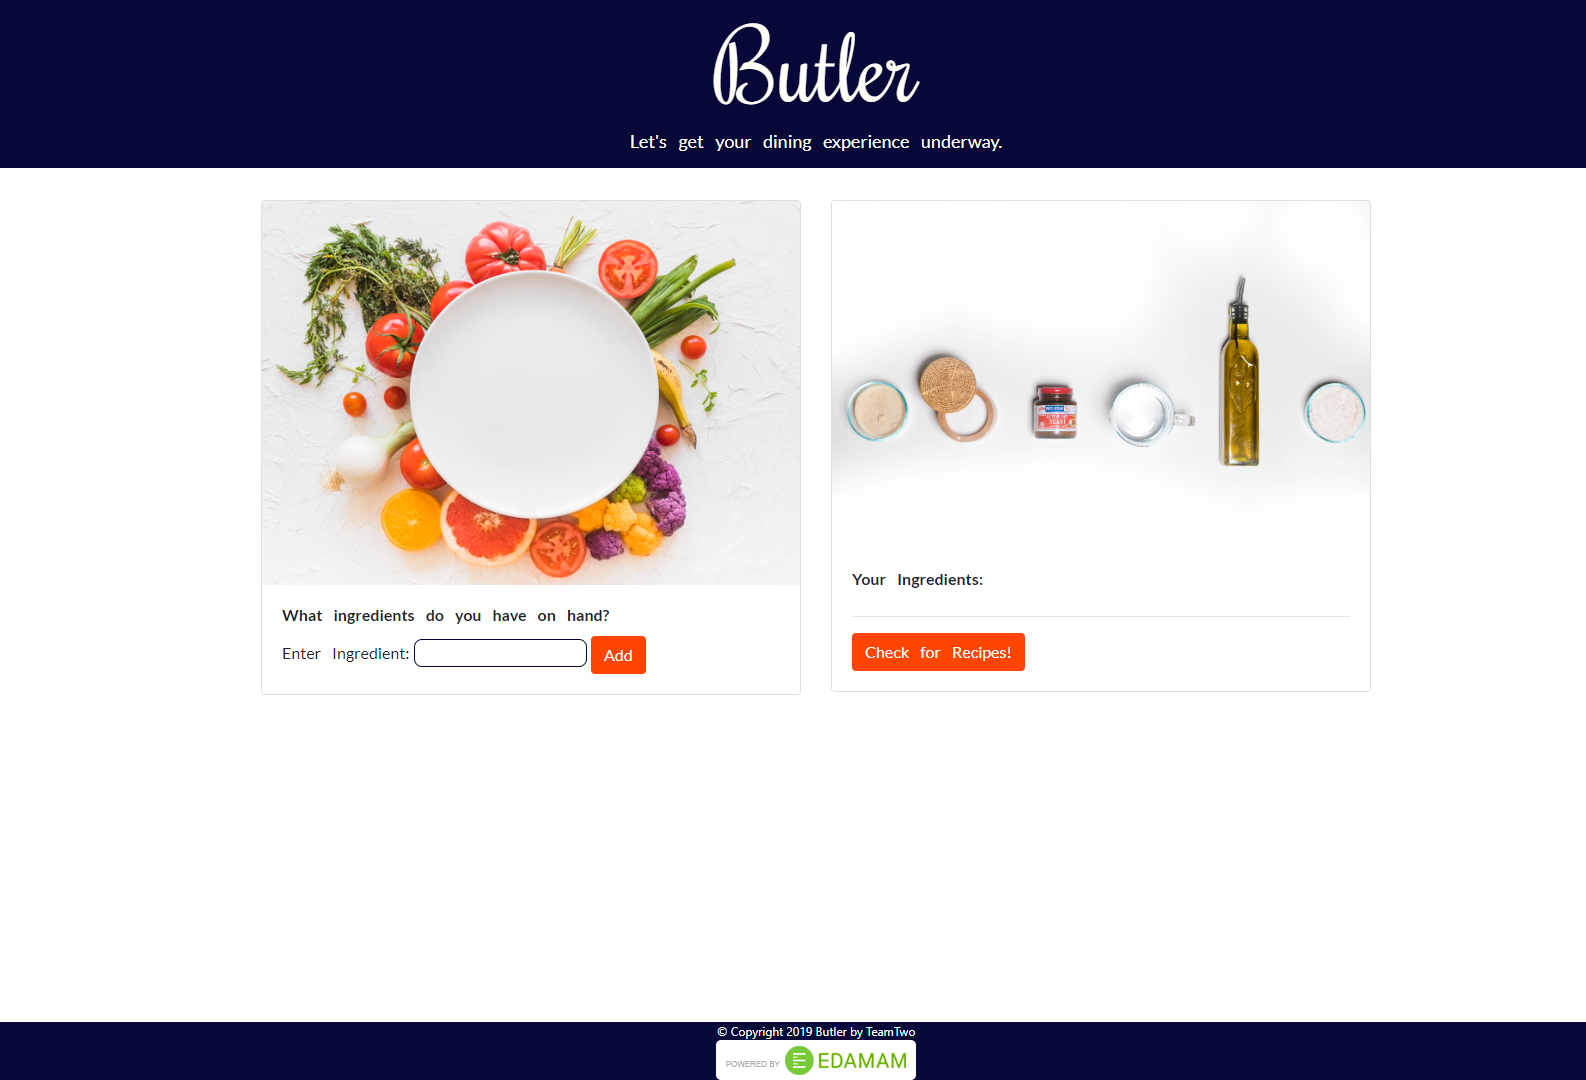
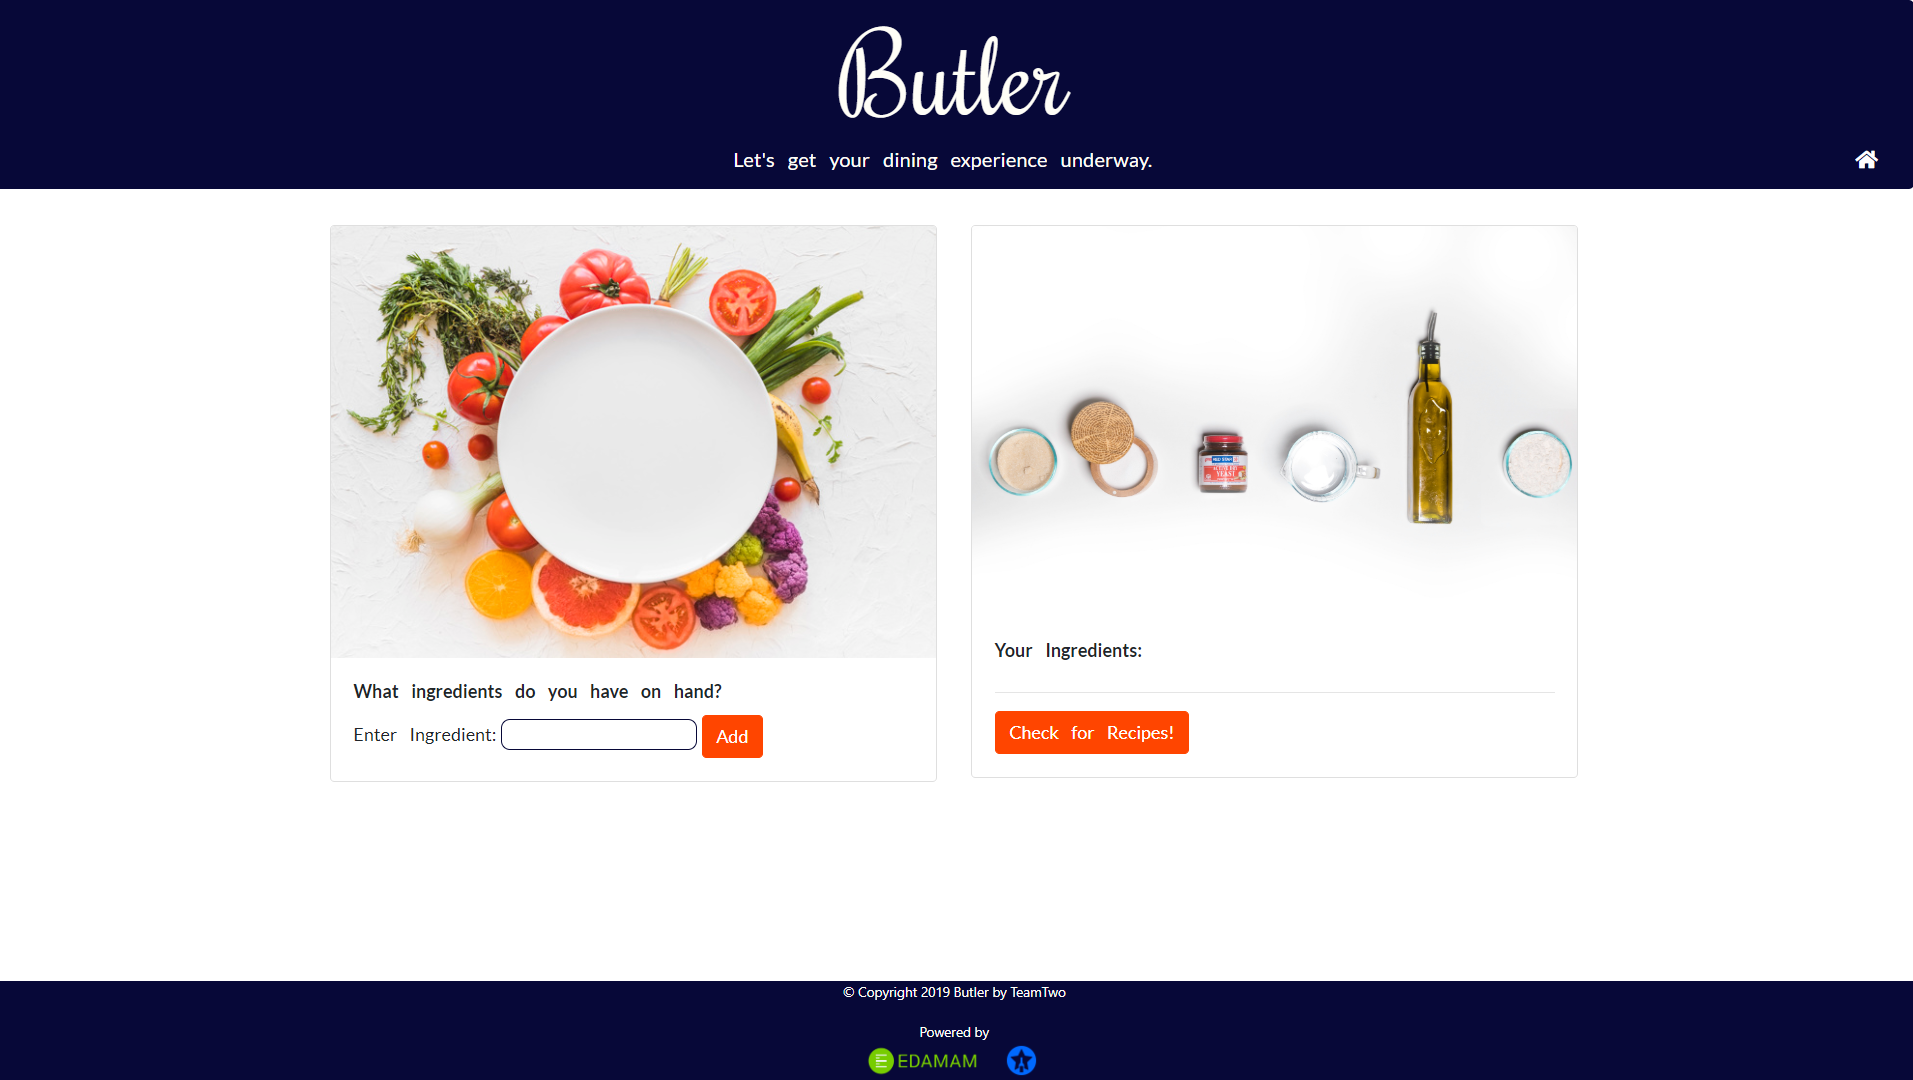
home button & input validation added

diff --git a/index.html b/index.html
@@ -10,8 +10,9 @@
         integrity="sha384-Gn5384xqQ1aoWXA+058RXPxPg6fy4IWvTNh0E263XmFcJlSAwiGgFAW/dAiS6JXm" crossorigin="anonymous">
 
     <link rel="stylesheet" type="text/css" href="Assets/css/styles.css">
-
+    
     <link href="https://fonts.googleapis.com/css?family=Aref+Ruqaa|Rochester&display=swap" rel="stylesheet">
+    <script src="https://kit.fontawesome.com/3e5f5cc774.js"></script>
     <script src="https://www.gstatic.com/firebasejs/6.2.0/firebase-app.js"></script>
     <script src="https://www.gstatic.com/firebasejs/6.0.4/firebase-database.js"></script>
     <script src="https://developer.edamam.com/attribution/badge.js"></script>
@@ -23,7 +24,9 @@
 <body>
     <header class="jumbotron py-2 " id="title">
         <h1>Butler</h1>
-        <h2>Let's get your dining experience underway.</h2>
+        <h2>Let's get your dining experience underway.
+        <a href="index.html" style="float: right; color:white;"><i class="fas fa-home"></i></a>
+    </h2>
     </header>
 
     <div class="container" id="page1">

diff --git a/Assets/javascript/proj.js b/Assets/javascript/proj.js
@@ -53,12 +53,15 @@ var recipeResults = function () {
 $("#submitIngredient").on("click", function (event) {
   event.preventDefault();
   var ingredient = $("#ingredient-input").val().trim();
+  if(ingredient === ""){
+    alert("Please enter a valid ingredient");
+  }else{
   $("#ingredientList").append(
     "<button id='ingredient' class='list-group-item'>" + ingredient + "</button>");
   list.push(ingredient);
   console.log(list);
   $("#ingredient-input").val("");
-
+}
 });
 
 // Get the input field
